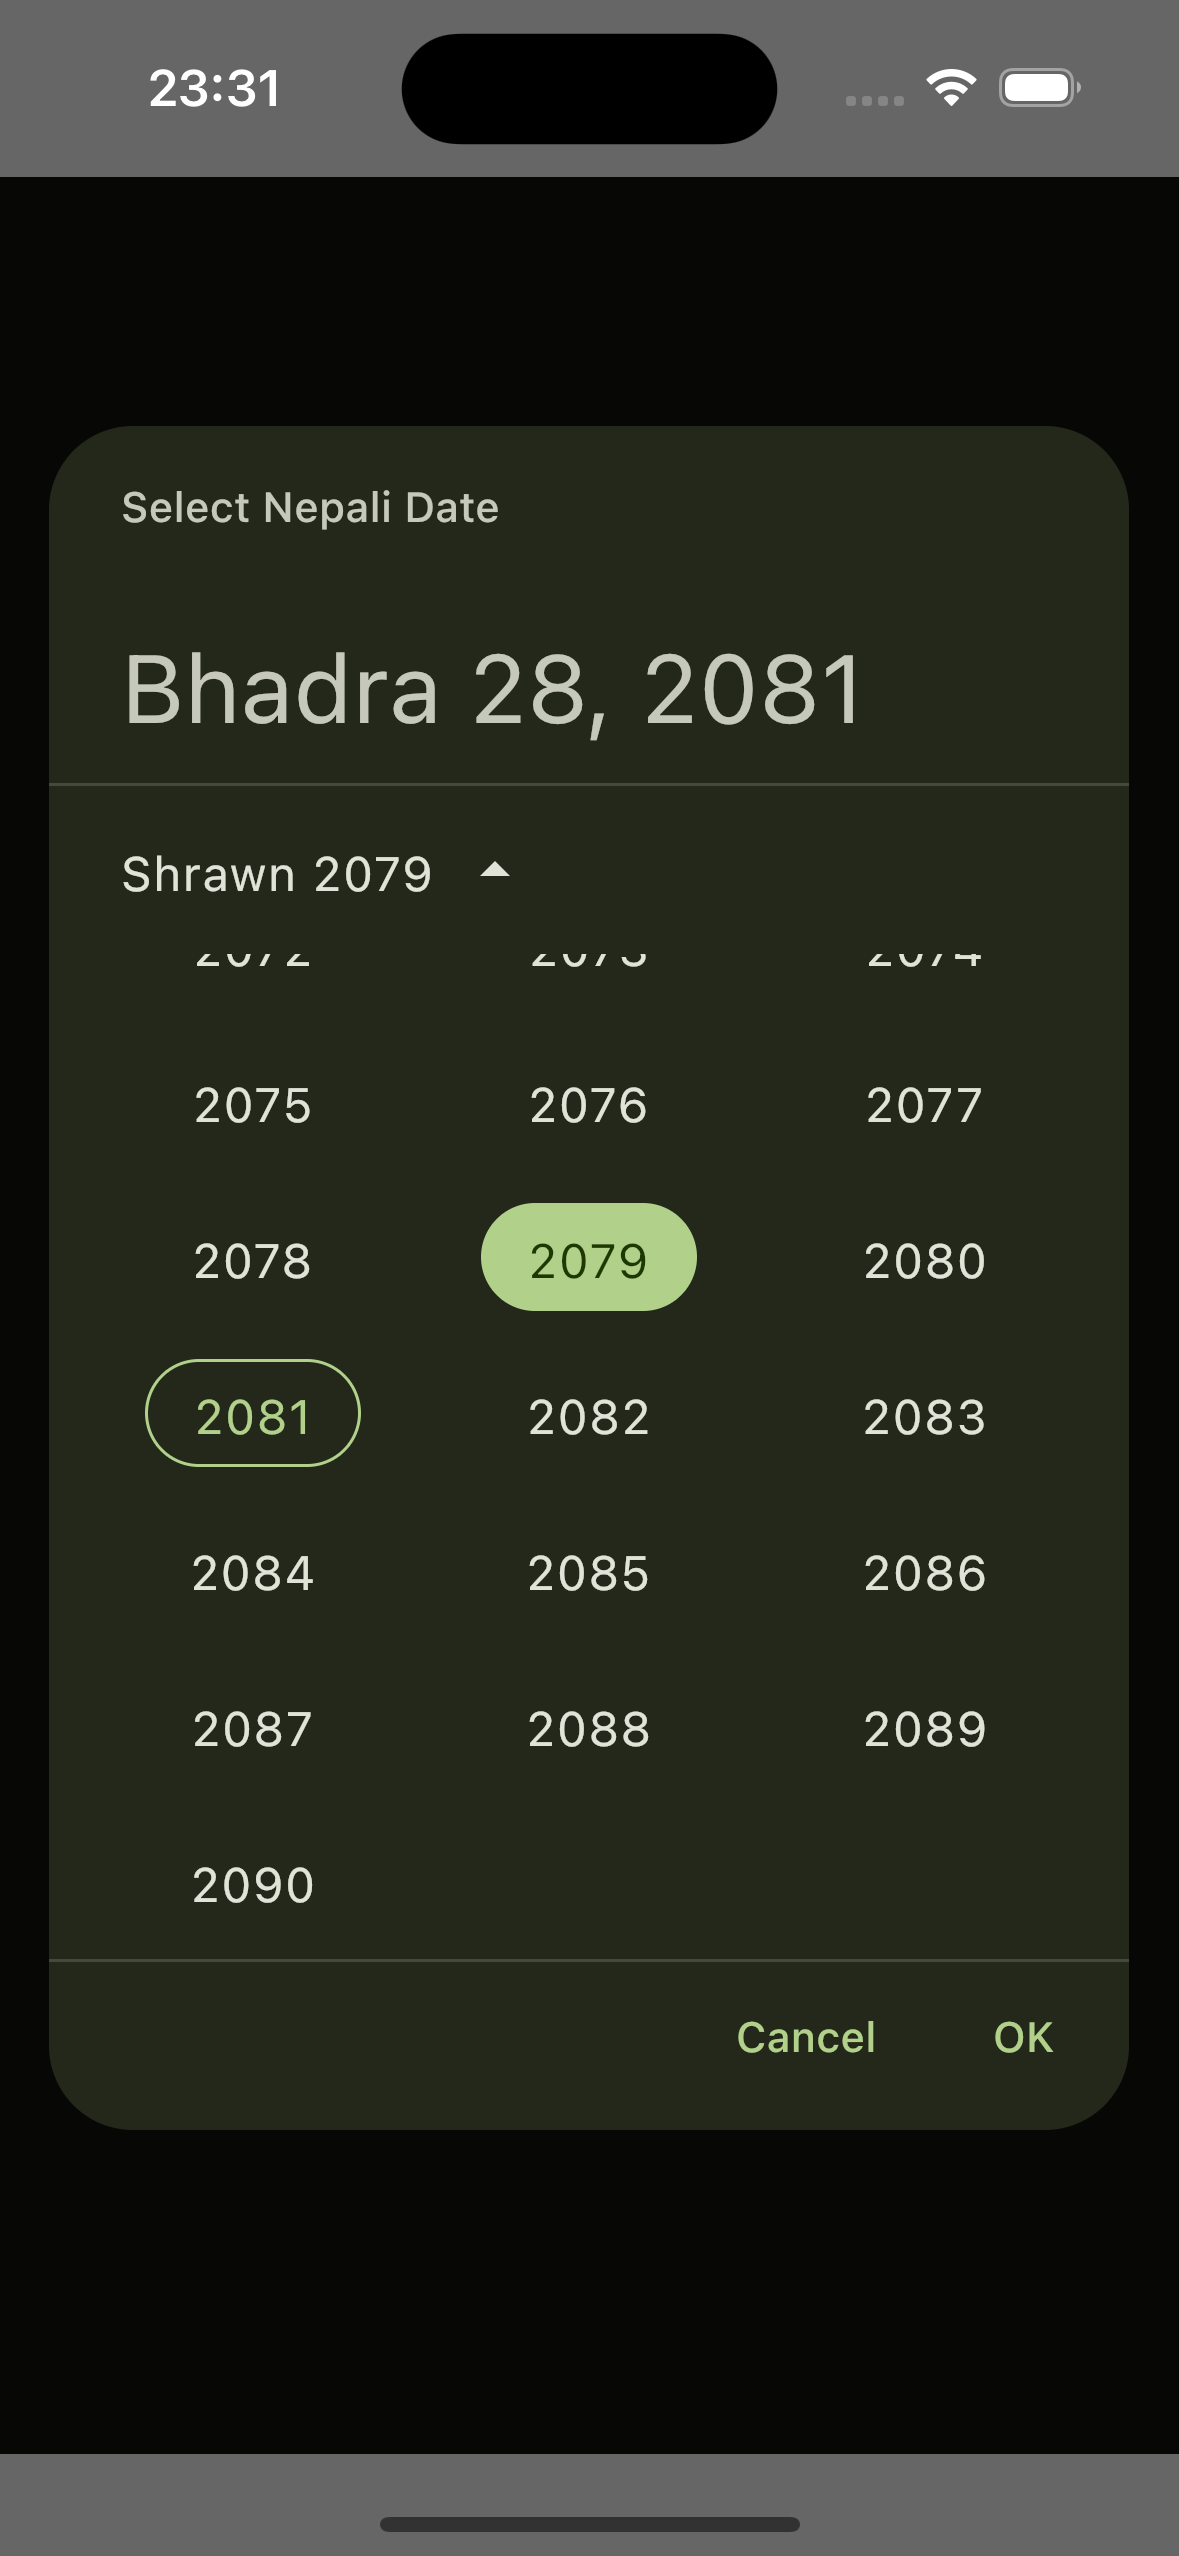
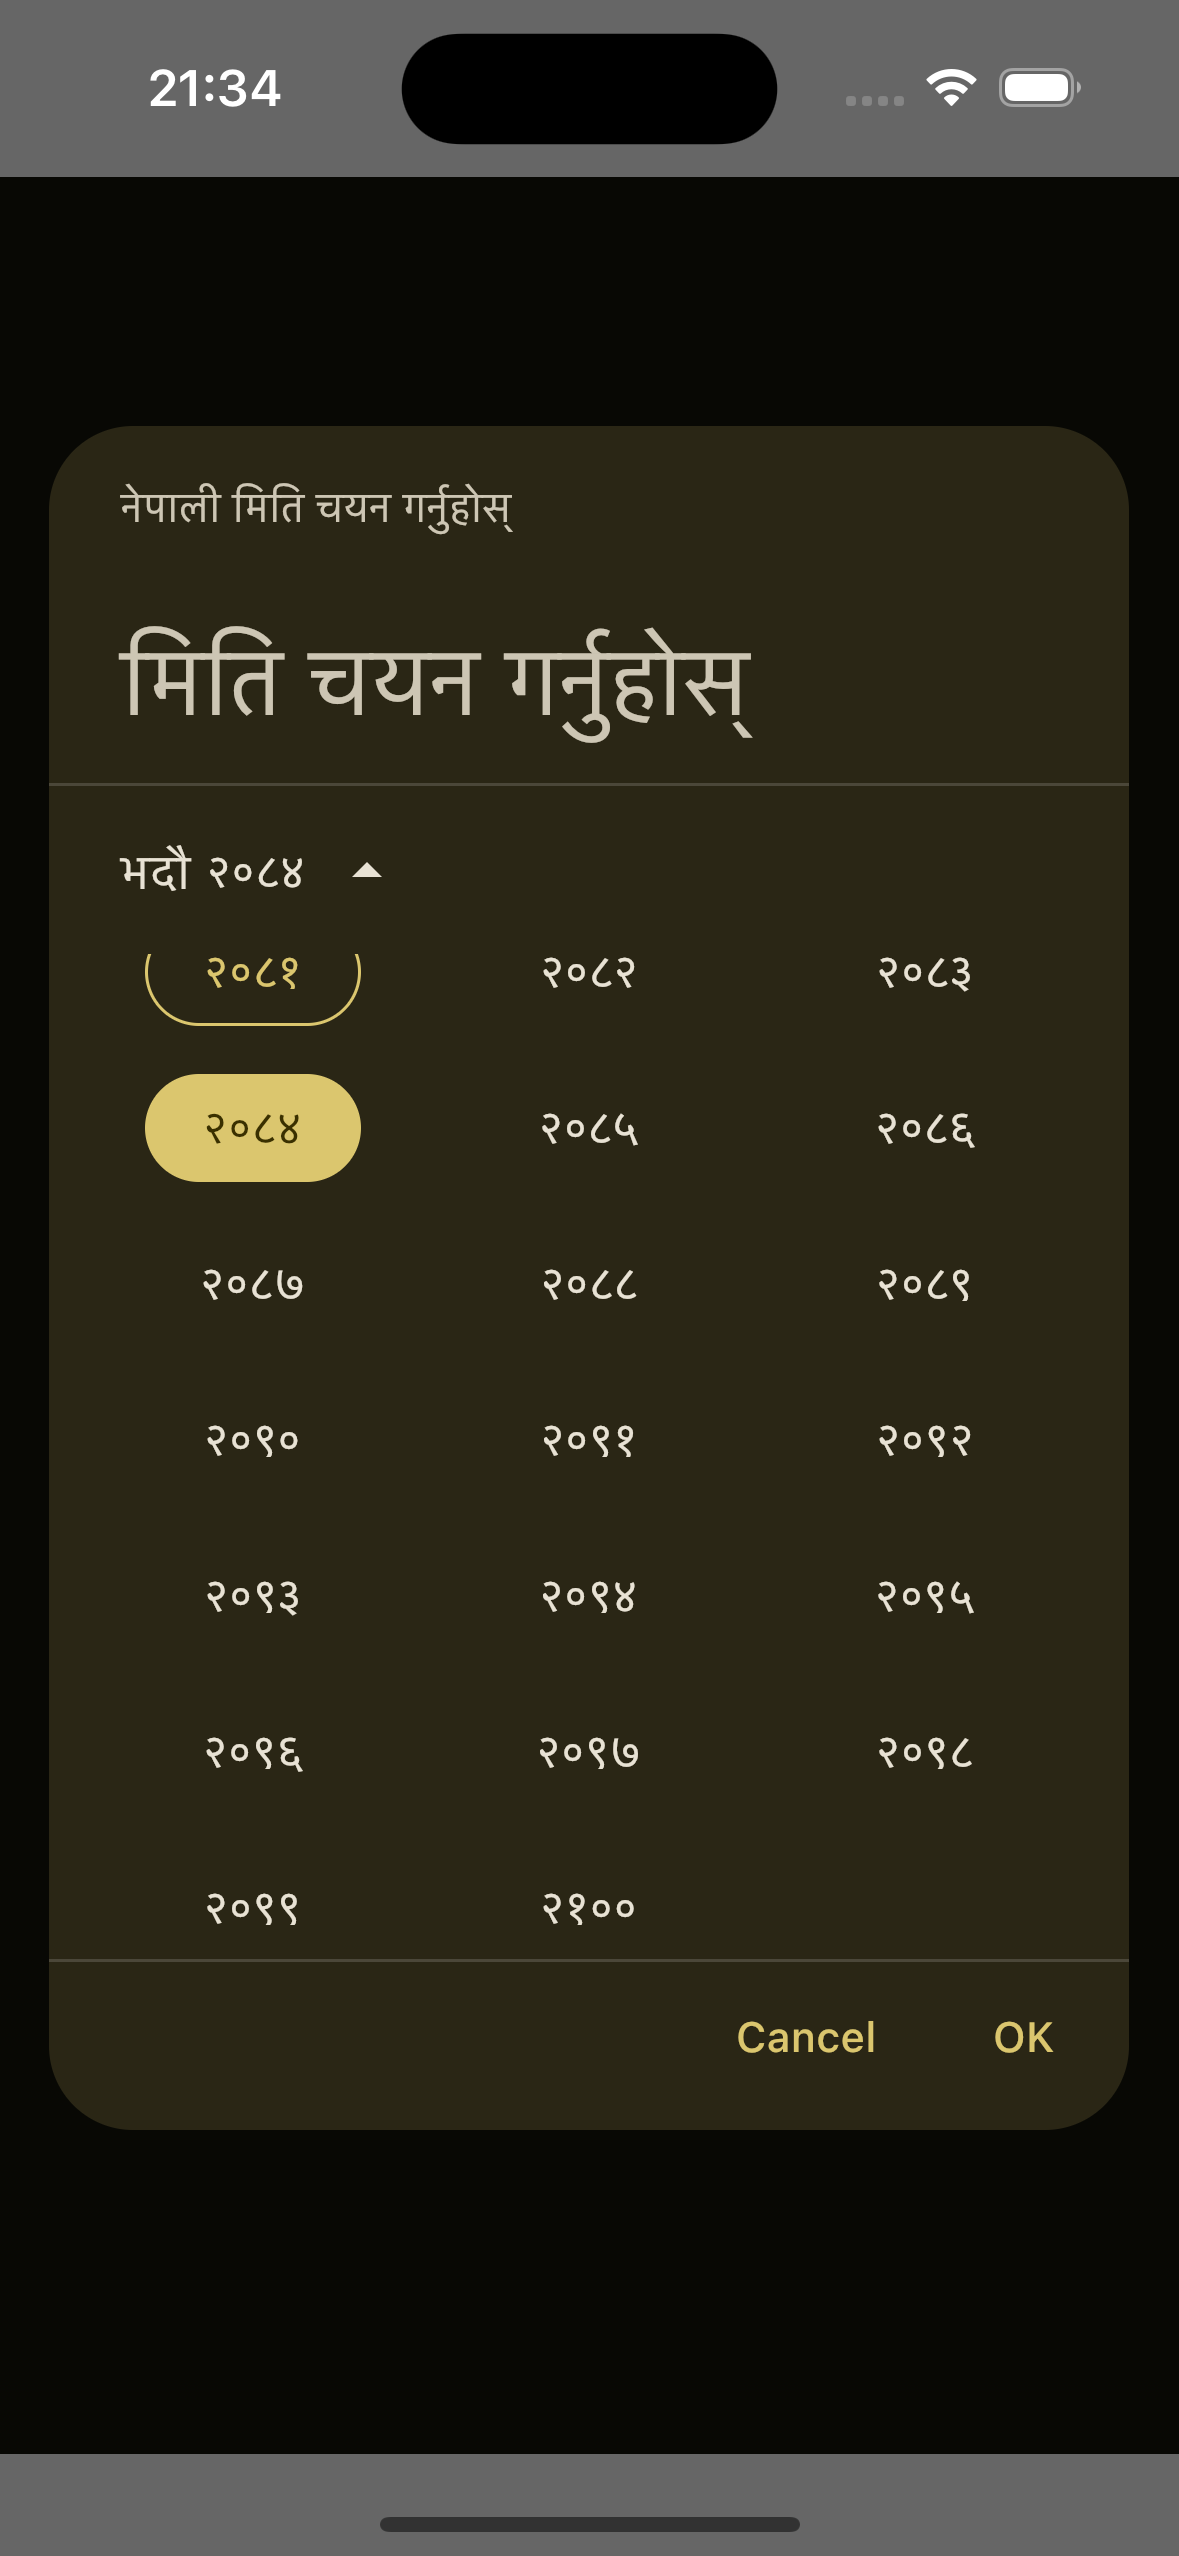
Fix heading and title colors with copy() and ui color display.

diff --git a/nepali-date-picker/src/commonMain/kotlin/dev/shivathapaa/nepalidatepickerkmp/calendar_model/NepaliDatePickerDefaults.kt b/nepali-date-picker/src/commonMain/kotlin/dev/shivathapaa/nepalidatepickerkmp/calendar_model/NepaliDatePickerDefaults.kt
@@ -35,11 +35,9 @@ import androidx.compose.ui.unit.Dp
 import androidx.compose.ui.unit.dp
 import dev.shivathapaa.nepalidatepickerkmp.NepaliSelectableDates
 import dev.shivathapaa.nepalidatepickerkmp.data.CustomCalendar
-import dev.shivathapaa.nepalidatepickerkmp.data.NameFormat
 import dev.shivathapaa.nepalidatepickerkmp.data.NepaliDateFormatStyle
 import dev.shivathapaa.nepalidatepickerkmp.data.NepaliDateLocale
 import dev.shivathapaa.nepalidatepickerkmp.data.NepaliDatePickerLang
-import dev.shivathapaa.nepalidatepickerkmp.data.SimpleDate
 
 @Stable
 object NepaliDatePickerDefaults {
@@ -110,7 +108,6 @@ object NepaliDatePickerDefaults {
         todayDateBorderColor: Color = Color.Unspecified,
         dayInSelectionRangeContentColor: Color = Color.Unspecified,
         dayInSelectionRangeContainerColor: Color = Color.Unspecified,
-        dialogButtonColor: Color = Color.Unspecified,
         dividerColor: Color = Color.Unspecified
     ): NepaliDatePickerColors = defaultDatePickerColors.copy(
         containerColor = containerColor,
@@ -136,7 +133,6 @@ object NepaliDatePickerDefaults {
         todayDateBorderColor = todayDateBorderColor,
         dayInSelectionRangeContentColor = dayInSelectionRangeContentColor,
         dayInSelectionRangeContainerColor = dayInSelectionRangeContainerColor,
-        dialogButtonColor = dialogButtonColor,
         dividerColor = dividerColor
     )
 
@@ -172,34 +168,30 @@ object NepaliDatePickerDefaults {
     ) {
         Text(
             text = language.datePickerTitle,
-            modifier = modifier,
-            color = colors().titleContentColor
+            modifier = modifier
         )
     }
 
     @Composable
     internal fun NepaliDatePickerHeadline(
-        selectedDate: SimpleDate?, modifier: Modifier = Modifier, locale: NepaliDateLocale
+        selectedDate: CustomCalendar?, modifier: Modifier = Modifier, locale: NepaliDateLocale
     ) {
         val calendarModel = NepaliCalendarModel(locale)
 
         val formattedDate = selectedDate?.let { date ->
-            val monthName =
-                calendarModel.getNepaliMonthName(date.month, NameFormat.FULL, locale.language)
-            val day = calendarModel.localizeNumber(
-                stringToLocalize = date.dayOfMonth.toString(), locale = locale.language
+            calendarModel.formatNepaliDate(
+                year = date.year,
+                month = date.month,
+                dayOfMonth = date.dayOfMonth,
+                dayOfWeek = date.dayOfWeek,
+                locale = locale
             )
-            val year = calendarModel.localizeNumber(
-                stringToLocalize = date.year.toString(), locale = locale.language
-            )
-            "$monthName $day, $year"
         } ?: locale.language.selectDateText
 
         Text(
             text = formattedDate,
             modifier = modifier,
-            maxLines = 1,
-            color = colors().headlineContentColor
+            maxLines = 1
         )
     }
 
@@ -207,16 +199,16 @@ object NepaliDatePickerDefaults {
      * A default button to for Nepali date picker dialog. i.e., "Cancel", "OK"
      */
     @Composable
-    internal fun NepaliDatePickerDialogButton(
+    fun NepaliDatePickerDialogButton(
         text: String,
         onButtonClick: () -> Unit,
-        modifier: Modifier = Modifier
+        modifier: Modifier = Modifier,
+        enabled: Boolean = true
     ) {
-        TextButton(onClick = onButtonClick, modifier = modifier) {
+        TextButton(onClick = onButtonClick, modifier = modifier, enabled = enabled) {
             Text(
                 text = text,
                 style = MaterialTheme.typography.labelLarge,
-                color = colors().dialogButtonColor
             )
         }
     }
@@ -323,13 +315,11 @@ class NepaliDatePickerColors(
     val todayDateBorderColor: Color,
     val dayInSelectionRangeContainerColor: Color,
     val dayInSelectionRangeContentColor: Color,
-    val dialogButtonColor: Color,
     val dividerColor: Color
 ) {
     /**
-     * Returns a copy of this DatePickerColors, optionally overriding some of the values.
+     * Returns a copy of this NepaliDatePickerColors, optionally overriding some of the values.
      * This uses the Color.Unspecified to mean “use the value from the source”
-     * // For `dateTextFieldColors` use null to mean "use the value from source"
      */
     fun copy(
         containerColor: Color = this.containerColor,
@@ -355,7 +345,6 @@ class NepaliDatePickerColors(
         todayDateBorderColor: Color = this.todayDateBorderColor,
         dayInSelectionRangeContainerColor: Color = this.dayInSelectionRangeContainerColor,
         dayInSelectionRangeContentColor: Color = this.dayInSelectionRangeContentColor,
-        dialogButtonColor: Color = this.dialogButtonColor,
         dividerColor: Color = this.dividerColor
     ) = NepaliDatePickerColors(containerColor.takeOrElse { this.containerColor },
         titleContentColor.takeOrElse { this.titleContentColor },
@@ -380,7 +369,6 @@ class NepaliDatePickerColors(
         todayDateBorderColor.takeOrElse { this.todayDateBorderColor },
         dayInSelectionRangeContainerColor.takeOrElse { this.dayInSelectionRangeContainerColor },
         dayInSelectionRangeContentColor.takeOrElse { this.dayInSelectionRangeContentColor },
-        dialogButtonColor.takeOrElse { this.dialogButtonColor },
         dividerColor.takeOrElse { this.dividerColor })
 
     /**
@@ -574,7 +562,6 @@ internal fun getDefaultNepaliDatePickerColors(): NepaliDatePickerColors {
         todayDateBorderColor = MaterialTheme.colorScheme.primary,
         dayInSelectionRangeContainerColor = MaterialTheme.colorScheme.secondaryContainer,
         dayInSelectionRangeContentColor = MaterialTheme.colorScheme.onSecondaryContainer,
-        dialogButtonColor = MaterialTheme.colorScheme.primary,
         dividerColor = MaterialTheme.colorScheme.outlineVariant
     )
 }
